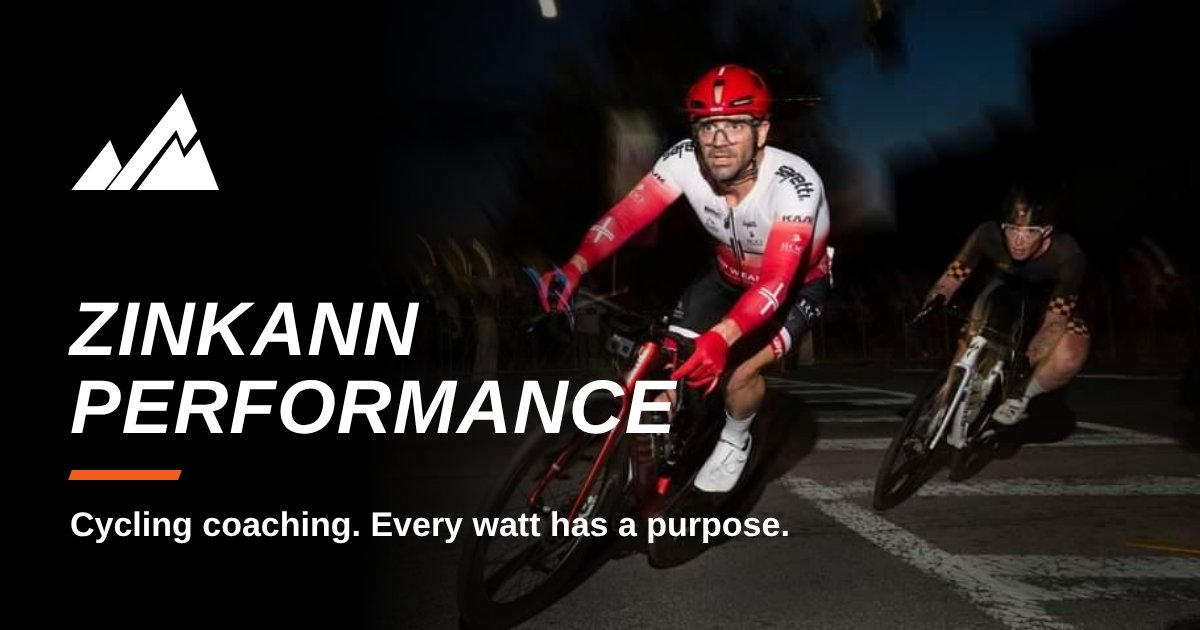
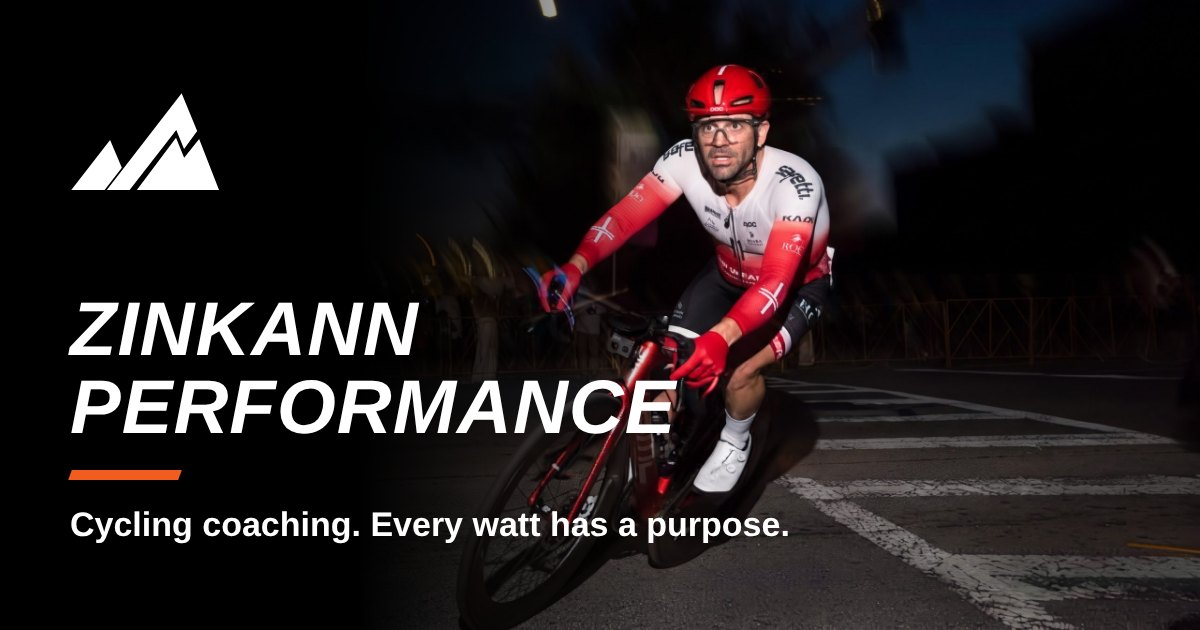
New hero photo (other rider removed, higher resolution) and refreshed sharing card
Claude-Session: https://claude.ai/code/session_013hH1X1GgxLsxGnfDSu6Mx4

diff --git a/public/index.html b/public/index.html
@@ -276,7 +276,7 @@ body.editing [data-edit]{outline:1px dashed #888;outline-offset:3px;cursor:text}
 <main>
   <div class="page" id="page-about">
     <div class="hero">
-      <img class="hbg" src="images/photo-2f3190049d.jpg" alt="Michael Zinkann racing a night criterium">
+      <img class="hbg" src="images/photo-b3349c4560.jpg" alt="Michael Zinkann racing a night criterium">
       <div class="htxt">
         <svg fill="#fff" viewBox="0 0 270 185"><use href="#logo"/></svg>
         <h1 data-edit="h1">Zinkann Performance</h1>
